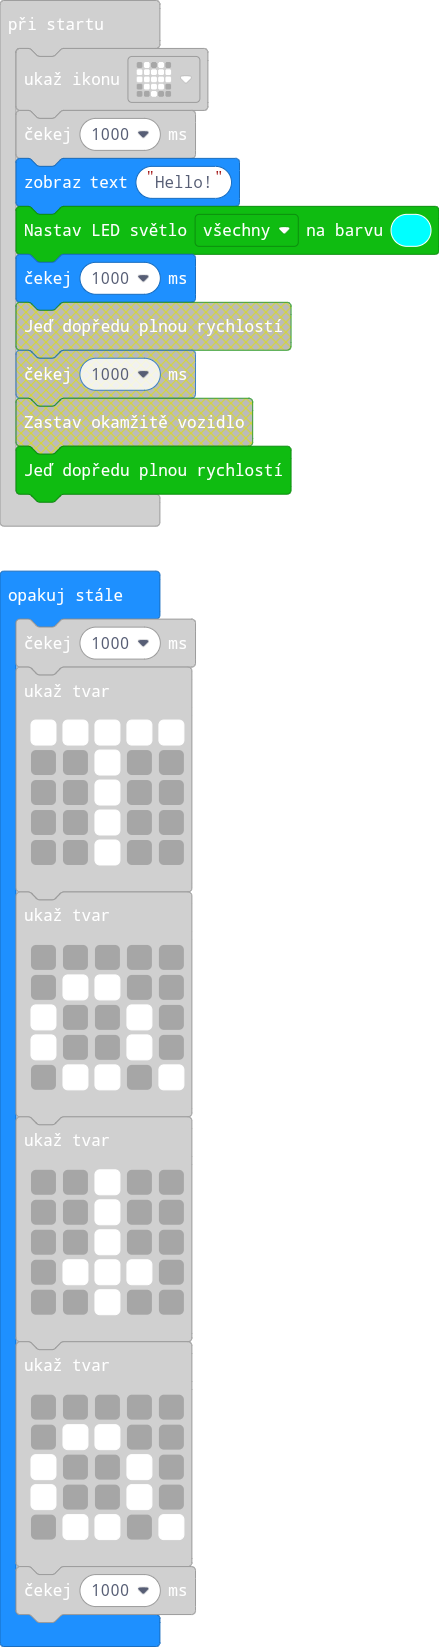
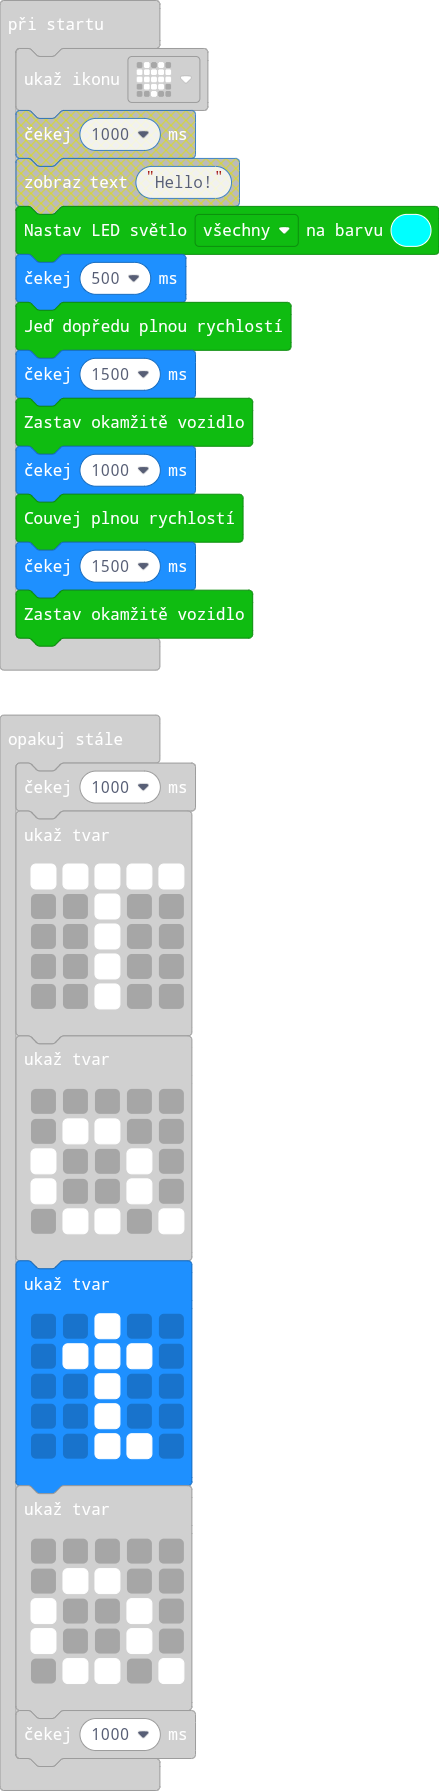
Aktualizovat main.blocks, main.ts

diff --git a/main.ts b/main.ts
@@ -1,9 +1,13 @@
 basic.showIcon(IconNames.Heart)
-basic.pause(1000)
-basic.showString("Hello!")
 cuteBot.colorLight(cuteBot.RGBLights.ALL, 0x00ffff)
-basic.pause(1000)
+basic.pause(500)
 cuteBot.forward()
+basic.pause(1500)
+cuteBot.stopcar()
+basic.pause(1000)
+cuteBot.backforward()
+basic.pause(1500)
+cuteBot.stopcar()
 basic.forever(function () {
     basic.pause(1000)
     basic.showLeds(`
@@ -22,10 +26,10 @@ basic.forever(function () {
         `)
     basic.showLeds(`
         . . # . .
-        . . # . .
-        . . # . .
         . # # # .
         . . # . .
+        . . # . .
+        . . # # .
         `)
     basic.showLeds(`
         . . . . .
